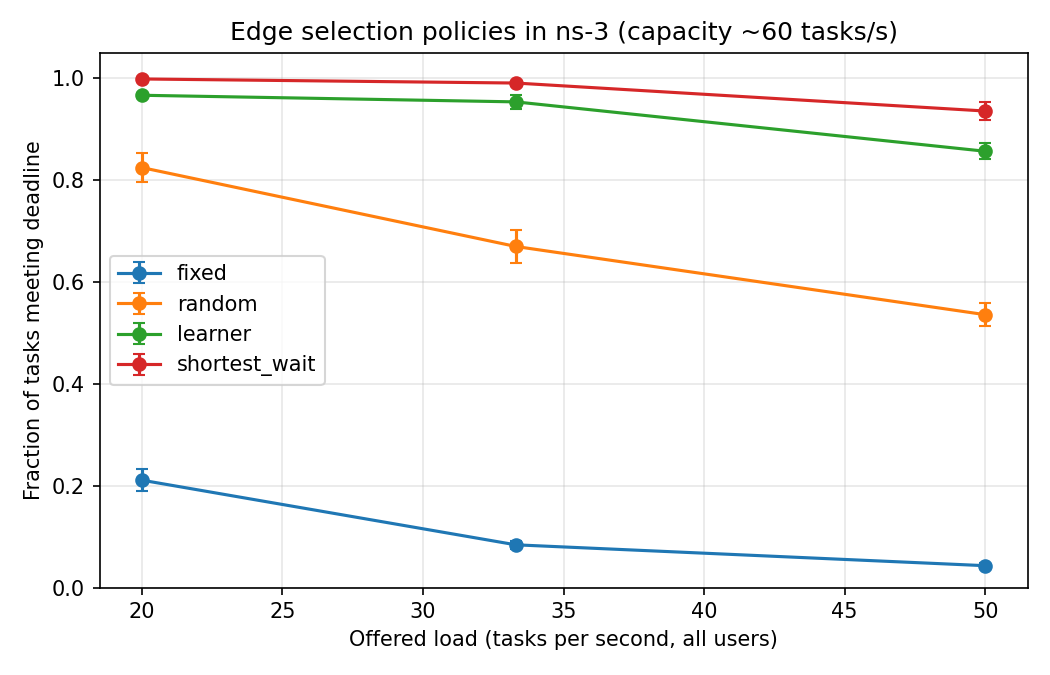
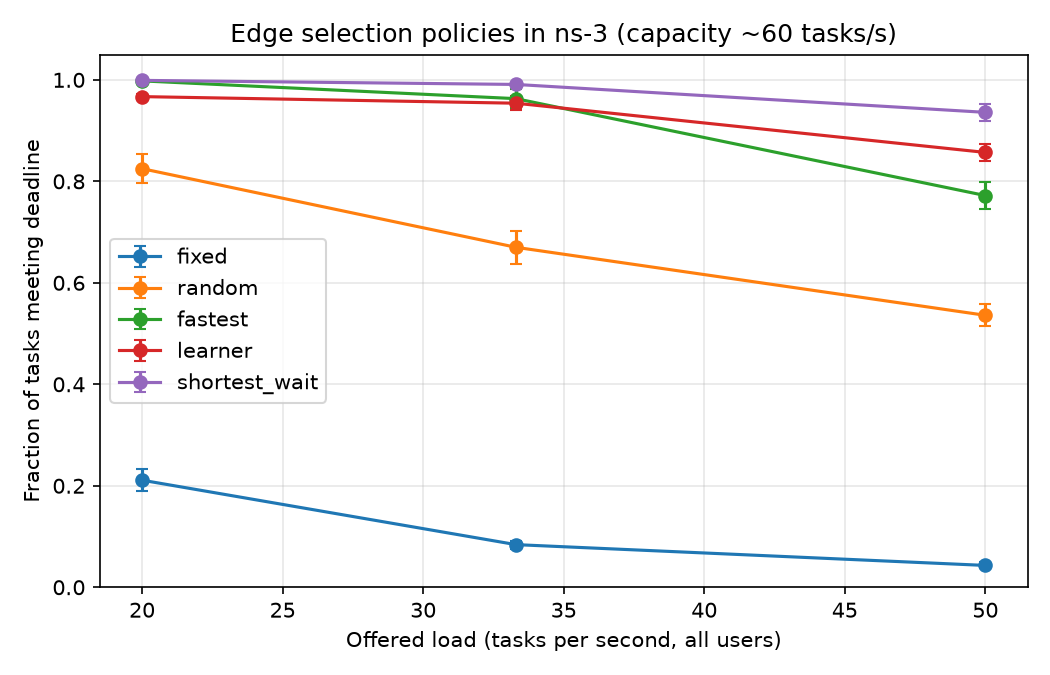
Add a "fastest" baseline policy (always the highest-GHz edge)
`fixed` deliberately uses a slow edge, so it makes every other policy look good.
`fastest` is the honest static baseline: pick the best hardware every time, with
no queue state and no feedback (ties broken by the seeded rng).

Results (5 seeds, ns-3.49), fraction of tasks meeting the deadline:
  load (tasks/s)    20     33     50
  fastest          0.998  0.963  0.772
  learner          0.967  0.954  0.857
  shortest_wait    0.999  0.991  0.936
learner only beats fastest at the highest load; at 20 and 33 tasks/s it does not.

summary.csv and the charts are regenerated to include fastest. All runs for the
other policies are byte-identical to the previous commit.

diff --git a/recommender.py b/recommender.py
@@ -16,6 +16,7 @@ Policies (--policy):
   fixed         always the same edge (--fixed-edge), the week-8 dummy
   random        uniform random edge
   shortest_wait edge with the smallest (tasks queued + 1) / speed; uses live queue state
+  fastest       always the edge with the highest edge_ghz (ties: random); a static baseline
   learner       learns a success rate for each (user, edge) pair from feedback only,
                 borrows other users' experience for edges a user hasn't tried,
                 and explores at random with probability --epsilon
@@ -70,6 +71,24 @@ class ShortestWait:
         pass
 
 
+class Fastest:
+    """Static baseline: always the edge with the highest CPU speed (edge_ghz).
+
+    Uses no queue state and no feedback, so it shows what "just pick the best hardware"
+    achieves. Ties are broken at random with the seeded rng.
+    """
+
+    def __init__(self, args, rng):
+        self.rng = rng
+
+    def choose(self, req):
+        best = max(req["edge_ghz"])
+        return self.rng.choice([e for e, g in enumerate(req["edge_ghz"]) if g == best])
+
+    def feedback(self, msg):
+        pass
+
+
 class Learner:
     """Collaborative-style recommender that sees only feedback, never queue state.
 
@@ -102,7 +121,8 @@ class Learner:
         self.rating[key] = y if old is None else (1 - self.alpha) * old + self.alpha * y
 
 
-POLICIES = {"fixed": Fixed, "random": Random, "shortest_wait": ShortestWait, "learner": Learner}
+POLICIES = {"fixed": Fixed, "random": Random, "shortest_wait": ShortestWait, "learner": Learner,
+            "fastest": Fastest}
 
 
 class TimeBound:

diff --git a/experiments.py b/experiments.py
@@ -25,7 +25,7 @@ from concurrent.futures import ThreadPoolExecutor
 HERE = os.path.dirname(os.path.abspath(__file__))
 OUTDIR = os.path.join(HERE, "results", "sweep")
 
-POLICIES = ["fixed", "random", "learner", "shortest_wait"]
+POLICIES = ["fixed", "random", "fastest", "learner", "shortest_wait"]
 # mean seconds between tasks per user -> offered load. With 10 users, the default
 # edges (4,1,1 GHz) and 0.1 Gcycles/task, total capacity is ~60 tasks/s.
 INTERVALS = [0.5, 0.3, 0.2]

diff --git a/README.md b/README.md
@@ -6,7 +6,7 @@ chosen edge, and reports the outcome back once the task has finished or failed.
 
 ```
 scratch/offload-edge.cc   ns-3 scenario: users -> base station -> edge nodes (with queues + CPUs)
-recommender.py            policies: fixed, random, shortest_wait, learner (+ optional TTL)
+recommender.py            policies: fixed, random, fastest, shortest_wait, learner (+ optional TTL)
 run.sh                    starts the recommender, then the scenario (one run)
 experiments.py            runs the policy comparison sweep, writes summary.csv + charts
 Dockerfile                pinned ns-3.48 environment for the whole group
@@ -36,7 +36,7 @@ NS3_DIR=~/ns-3-dev python3 experiments.py
 
 | Variable | Default | Meaning |
 |---|---|---|
-| `POLICY` | fixed | `fixed` (always edge 1), `random`, `shortest_wait`, `learner` |
+| `POLICY` | fixed | `fixed` (always edge 1), `random`, `fastest`, `shortest_wait`, `learner` |
 | `TTL` | 0 | seconds a recommendation stays valid per user; 0 = ask every task |
 | `SEED` | 1 | passed to ns-3 as `--RngRun` and to the recommender |
 | `PORT` | 5555 + `SLURM_ARRAY_TASK_ID` | must differ between simultaneous runs |
@@ -46,6 +46,9 @@ NS3_DIR=~/ns-3-dev python3 experiments.py
 Policies:
 - `fixed`: the week-8 dummy (always edge 1, a slow edge).
 - `random`: uniform random edge.
+- `fastest`: always the edge with the highest CPU speed (ties broken at random). A static
+  "best hardware" baseline: no queue state, no feedback. A fairer bar than `fixed`, which
+  deliberately picks a slow edge.
 - `shortest_wait`: smallest (queued tasks + 1) / speed. Uses live queue state, so it is the
   "perfect information" heuristic to beat.
 - `learner`: collaborative-style. Keeps a success rate per (user, edge), updated from
